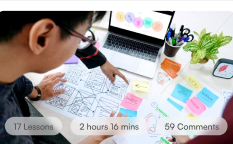
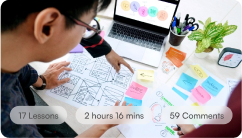
feat: courses section added

diff --git a/src/components/features/courses-section.tsx b/src/components/features/courses-section.tsx
@@ -1,0 +1,372 @@
+"use client";
+
+import Image from "next/image";
+import Link from "next/link";
+import { useState } from "react";
+import { AiFillStar } from "react-icons/ai";
+
+interface Course {
+    id: string;
+    title: string;
+    instructor: string;
+    rating: number;
+    lessons: number;
+    duration: string;
+    comments: number;
+    level: string;
+    price: number;
+    priceType: string;
+    image: string;
+    category: string;
+}
+
+const coursesData: Course[] = [
+    {
+        id: "1",
+        title: "Learn Figma from Basic",
+        instructor: "purepearl studio",
+        rating: 4.5,
+        lessons: 17,
+        duration: "2 hours 16 mins",
+        comments: 59,
+        level: "Beginner",
+        price: 25,
+        priceType: "/lifetime",
+        image: "/courses/course-1.png",
+        category: "UI/UX Design",
+    },
+    {
+        id: "2",
+        title: "Build Digital Asset",
+        instructor: "purepearl studio",
+        rating: 4.5,
+        lessons: 17,
+        duration: "2 hours 16 mins",
+        comments: 59,
+        level: "Beginner",
+        price: 25,
+        priceType: "/lifetime",
+        image: "/courses/course-2.png",
+        category: "Graphic Design",
+    },
+    {
+        id: "3",
+        title: "the Power of Big Data",
+        instructor: "purepearl studio",
+        rating: 4.5,
+        lessons: 17,
+        duration: "2 hours 16 mins",
+        comments: 59,
+        level: "Beginner",
+        price: 25,
+        priceType: "/lifetime",
+        image: "/courses/course-3.png",
+        category: "Data Science",
+    },
+    {
+        id: "4",
+        title: "User Experience & Wireframing",
+        instructor: "purepearl studio",
+        rating: 4.5,
+        lessons: 17,
+        duration: "2 hours 16 mins",
+        comments: 59,
+        level: "Beginner",
+        price: 25,
+        priceType: "/lifetime",
+        image: "/courses/course-4.jpg",
+        category: "UI/UX Design",
+    },
+    {
+        id: "5",
+        title: "Modern Web Development",
+        instructor: "purepearl studio",
+        rating: 4.5,
+        lessons: 17,
+        duration: "2 hours 16 mins",
+        comments: 59,
+        level: "Beginner",
+        price: 25,
+        priceType: "/lifetime",
+        image: "/courses/course-5.jpg",
+        category: "Web Development",
+    },
+    {
+        id: "6",
+        title: "Digital Product Strategy & Innovation",
+        instructor: "purepearl studio",
+        rating: 4.5,
+        lessons: 17,
+        duration: "2 hours 16 mins",
+        comments: 59,
+        level: "Beginner",
+        price: 25,
+        priceType: "/lifetime",
+        image: "/courses/course-6.jpg",
+        category: "Marketing",
+    },
+];
+
+const categoryRows = [
+    [
+        "Featured",
+        "Music",
+        "Drawing & Painting",
+        "Marketing",
+        "Animation",
+        "Social Media",
+        "UI/UX Design",
+        "Creative Marketing",
+    ],
+    [
+        "Digital Illustration",
+        "Film & Video",
+        "Crafts",
+        "Freelance & Entrepreneurship",
+        "Graphic Design",
+        "Photography",
+    ],
+    [
+        "Productivity",
+        "Web Development",
+        "Data Science",
+        "Cooking",
+    ],
+];
+
+const studentAvatars = [
+    "/avatars/avatar-1.png",
+    "/avatars/avatar-2.png",
+    "/avatars/avatar-3.png",
+    "/avatars/avatar-4.png",
+];
+
+export default function CoursesSection() {
+    const [selectedCategory, setSelectedCategory] = useState("Featured");
+    const [showMore, setShowMore] = useState(false);
+
+    const filteredCourses =
+        selectedCategory === "Featured"
+            ? coursesData
+            : coursesData.filter(
+                  (c) =>
+                      c.category.toLowerCase() ===
+                      selectedCategory.toLowerCase()
+              );
+
+    const displayCourses =
+        filteredCourses.length > 0 ? filteredCourses : coursesData;
+
+    return (
+        <section className="w-full bg-white py-16 sm:py-20 md:py-24">
+            <div className="container-page">
+                <div className="text-center max-w-212.5 mx-auto">
+                    <h2 className="font-poppins font-semibold text-[#111111] text-[32px] sm:text-[42px] md:text-[48px] leading-[1.2] tracking-[-0.02em]">
+                        Discover Your Passion, <br className="hidden sm:inline" />
+                        Build Your Skills
+                    </h2>
+                    <p className="mt-4 text-[#82868E] text-[15px] sm:text-[16px] leading-[160%] font-normal max-w-[780px] mx-auto">
+                        At Bytespace Courses, we bring you closer to life-changing knowledge. Explore a variety of courses across different fields, from technology to the arts, and make a difference in your career and life.
+                    </p>
+                </div>
+
+                <div className="mt-10 sm:mt-12 flex flex-col items-center gap-2.5 sm:gap-3">
+                    <div className="hidden lg:flex flex-col items-center gap-2.5 w-full">
+
+                        <div className="flex items-center justify-center gap-2.5 flex-wrap">
+                            {categoryRows[0].map((cat) => (
+                                <button
+                                    key={cat}
+                                    type="button"
+                                    onClick={() => setSelectedCategory(cat)}
+                                    className={`px-5 py-2.5 rounded-full text-[14px] transition-all duration-200 select-none cursor-pointer ${
+                                        selectedCategory === cat
+                                            ? "bg-[#D4FB20] text-[#111111] font-medium shadow-xs"
+                                            : "bg-[#F5F5F6] text-[#242528] hover:bg-[#EAEAEA] font-normal"
+                                    }`}
+                                >
+                                    {cat}
+                                </button>
+                            ))}
+                        </div>
+
+                        <div className="flex items-center justify-center gap-2.5 flex-wrap">
+                            {categoryRows[1].map((cat) => (
+                                <button
+                                    key={cat}
+                                    type="button"
+                                    onClick={() => setSelectedCategory(cat)}
+                                    className={`px-5 py-2.5 rounded-full text-[14px] transition-all duration-200 select-none cursor-pointer ${
+                                        selectedCategory === cat
+                                            ? "bg-[#D4FB20] text-[#111111] font-medium shadow-xs"
+                                            : "bg-[#F5F5F6] text-[#242528] hover:bg-[#EAEAEA] font-normal"
+                                    }`}
+                                >
+                                    {cat}
+                                </button>
+                            ))}
+                        </div>
+
+                        <div className="flex items-center justify-center gap-2.5 flex-wrap">
+                            {categoryRows[2].map((cat) => (
+                                <button
+                                    key={cat}
+                                    type="button"
+                                    onClick={() => setSelectedCategory(cat)}
+                                    className={`px-5 py-2.5 rounded-full text-[14px] transition-all duration-200 select-none cursor-pointer ${
+                                        selectedCategory === cat
+                                            ? "bg-[#D4FB20] text-[#111111] font-medium shadow-xs"
+                                            : "bg-[#F5F5F6] text-[#242528] hover:bg-[#EAEAEA] font-normal"
+                                    }`}
+                                >
+                                    {cat}
+                                </button>
+                            ))}
+                            <button
+                                type="button"
+                                onClick={() => setShowMore(!showMore)}
+                                className="px-3 py-2 text-[14px] font-medium text-[#003BE2] hover:underline cursor-pointer select-none transition-colors"
+                            >
+                                {showMore ? "- Less" : "+ More"}
+                            </button>
+                        </div>
+                    </div>
+                    <div className="lg:hidden flex flex-wrap items-center justify-center gap-2">
+                        {categoryRows.flat().map((cat) => (
+                            <button
+                                key={cat}
+                                type="button"
+                                onClick={() => setSelectedCategory(cat)}
+                                className={`px-4 py-2 rounded-full text-[13px] transition-all duration-200 select-none cursor-pointer ${
+                                    selectedCategory === cat
+                                        ? "bg-[#D4FB20] text-[#111111] font-medium shadow-xs"
+                                        : "bg-[#F5F5F6] text-[#242528] hover:bg-[#EAEAEA] font-normal"
+                                }`}
+                            >
+                                {cat}
+                            </button>
+                        ))}
+                    </div>
+                </div>
+
+                <div className="mt-12 sm:mt-16 grid grid-cols-1 md:grid-cols-2 lg:grid-cols-3 gap-6 lg:gap-8">
+                    {displayCourses.map((course) => (
+                        <div
+                            key={course.id}
+                            className="group relative bg-white rounded-[24px] border border-[#E5E6E8] p-3.5 sm:p-4 hover:shadow-[0_16px_36px_rgba(0,0,0,0.08)] hover:-translate-y-1 transition-all duration-300 flex flex-col justify-between"
+                        >
+                            <div>
+                                <div className="relative w-full aspect-[16/10] rounded-[16px] overflow-hidden bg-[#F5F5F6]">
+                                    <Image
+                                        src={course.image}
+                                        alt={course.title}
+                                        fill
+                                        sizes="(max-width: 768px) 100vw, (max-width: 1200px) 50vw, 33vw"
+                                        className="object-cover group-hover:scale-105 transition-transform duration-500"
+                                    />
+
+                                    <div className="absolute bottom-2.5 left-2.5 right-2.5 flex items-center gap-1.5 sm:gap-2 select-none">
+                                        <div className="px-2.5 sm:px-3 py-1 rounded-full text-[11px] font-normal text-[#242528] bg-white/75 backdrop-blur-md shadow-xs border border-white/30 truncate">
+                                            {course.lessons} Lessons
+                                        </div>
+                                        <div className="px-2.5 sm:px-3 py-1 rounded-full text-[11px] font-normal text-[#242528] bg-white/75 backdrop-blur-md shadow-xs border border-white/30 truncate">
+                                            {course.duration}
+                                        </div>
+                                        <div className="px-2.5 sm:px-3 py-1 rounded-full text-[11px] font-normal text-[#242528] bg-white/75 backdrop-blur-md shadow-xs border border-white/30 truncate">
+                                            {course.comments} Comments
+                                        </div>
+                                    </div>
+                                </div>
+
+                                <div className="mt-4 flex items-start justify-between gap-3">
+                                    <h3 className="font-semibold text-[18px] sm:text-[19px] text-[#111111] leading-tight line-clamp-1">
+                                        <Link
+                                            href={`/courses/${course.id}`}
+                                            className="hover:text-[#003BE2] transition-colors"
+                                        >
+                                            {course.title}
+                                        </Link>
+                                    </h3>
+                                    <div className="flex items-center gap-1 shrink-0 pt-0.5">
+                                        <span className="text-[14px] font-medium text-[#242528] leading-none">
+                                            {course.rating.toFixed(1)}
+                                        </span>
+                                        <AiFillStar className="text-[#9CA3AF] text-[15px]" />
+                                    </div>
+                                </div>
+
+                                <p className="mt-1 text-[13px] text-[#82868E] font-normal">
+                                    by{" "}
+                                    <span className="text-[#003BE2] hover:underline cursor-pointer">
+                                        {course.instructor}
+                                    </span>
+                                </p>
+                            </div>
+
+
+                            <div className="mt-4 pt-1">
+
+                                <div className="flex items-center justify-between">
+
+                                    <div className="inline-flex items-center gap-1.5 px-3 py-1 rounded-full bg-[#F5F5F6] text-[#242528] text-[12px] font-medium">
+                                        <svg
+                                            width="12"
+                                            height="12"
+                                            viewBox="0 0 16 16"
+                                            fill="currentColor"
+                                            className="text-[#242528] shrink-0"
+                                            aria-hidden="true"
+                                        >
+                                            <rect x="2" y="9" width="2.5" height="5" rx="1" />
+                                            <rect x="6.75" y="5" width="2.5" height="9" rx="1" />
+                                            <rect
+                                                x="11.5"
+                                                y="2"
+                                                width="2.5"
+                                                height="12"
+                                                rx="1"
+                                                opacity="0.25"
+                                            />
+                                        </svg>
+                                        <span>{course.level}</span>
+                                    </div>
+
+                                    <div className="flex items-center">
+                                        {studentAvatars.map((src, i) => (
+                                            <div
+                                                key={i}
+                                                className={`relative w-[28px] h-[28px] rounded-full border-2 border-white overflow-hidden shadow-xs shrink-0 ${
+                                                    i !== 0 ? "-ml-2.5" : ""
+                                                }`}
+                                            >
+                                                <Image
+                                                    src={src}
+                                                    alt={`Student ${i + 1}`}
+                                                    fill
+                                                    sizes="28px"
+                                                    className="object-cover"
+                                                />
+                                            </div>
+                                        ))}
+                                        <div className="-ml-2.5 w-[28px] h-[28px] rounded-full bg-[#D4FB20] text-[#111111] text-[10px] font-bold flex items-center justify-center border-2 border-white shadow-xs shrink-0 z-10">
+                                            26+
+                                        </div>
+                                    </div>
+                                </div>
+
+                                <div className="mt-4 flex items-baseline gap-1">
+                                    <span className="text-[22px] font-bold text-[#003BE2] leading-none">
+                                        ${course.price}
+                                    </span>
+                                    <span className="text-[12px] sm:text-[13px] text-[#82868E] font-normal">
+                                        {course.priceType}
+                                    </span>
+                                </div>
+                            </div>
+                        </div>
+                    ))}
+                </div>
+            </div>
+        </section>
+    );
+}

diff --git a/src/app/page.tsx b/src/app/page.tsx
@@ -1,4 +1,5 @@
 import BrandSection from "@/components/features/brand-section";
+import CoursesSection from "@/components/features/courses-section";
 import HeroSection from "@/components/features/hero-section";
 
 export default function Home() {
@@ -6,6 +7,7 @@ export default function Home() {
         <main className="flex-1 w-full">
             <HeroSection />
             <BrandSection />
+            <CoursesSection />
         </main>
     );
 }

diff --git a/src/components/features/brand-section.tsx b/src/components/features/brand-section.tsx
@@ -54,7 +54,7 @@ export default function BrandSection() {
                             alt={brand.name}
                             width={brand.width}
                             height={brand.height}
-                            className="h-7 sm:h-[30px] w-auto object-contain"
+                            className="h-7 sm:h-7.5 w-auto object-contain"
                         />
                     </div>
                 ))}
